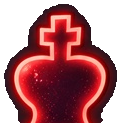
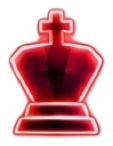
Patch 19: Horizon theme rebuild on Patch 18

diff --git a/src/data/gameThemes.ts b/src/data/gameThemes.ts
@@ -106,7 +106,7 @@ export const GAME_THEMES: GameTheme[] = [
     description: 'Fire vs ice — the signature Chess Horizon theme',
     board: makeBoard(
       'horizon',
-      { x: 0.0155, y: 0.0157, w: 0.9691, h: 0.9686 },
+      { x: 0.0105, y: 0.0304, w: 0.9774, h: 0.9556 },
       {
         selectColor: 'rgba(125, 211, 252, 0.45)',
         lastMoveColor: 'rgba(125, 211, 252, 0.28)',
